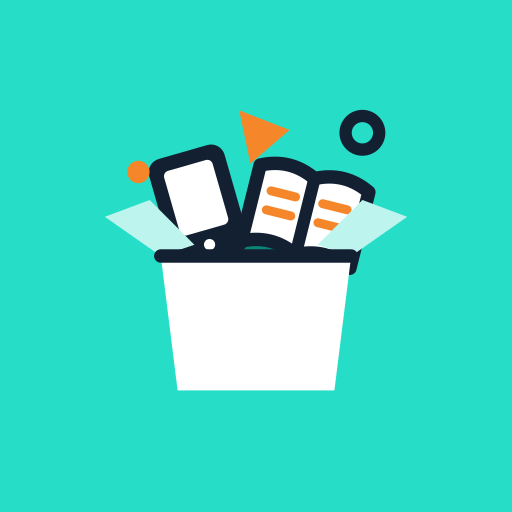
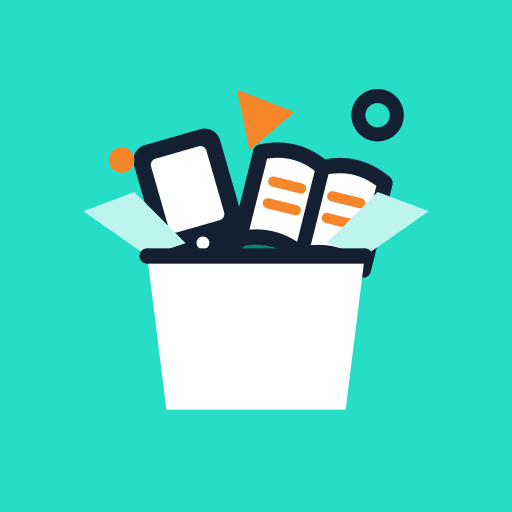
Add files via upload

Changed region(s): [[0.1562, 0.1562, 0.8438, 0.8125]]

diff --git a/index.html b/index.html
@@ -147,6 +147,36 @@ details.ayuda p{margin:0 0 6px}
 .check{display:flex;gap:10px;align-items:flex-start;font-weight:400;font-size:15px;margin-top:14px}
 .check input{margin-top:4px;width:18px;height:18px;flex:none;accent-color:var(--btn)}
 
+
+/* Pantalla de entrada: logo animado + barra de progreso rápida, cada vez que se abre la app */
+.splash{position:fixed;inset:0;z-index:100;display:flex;flex-direction:column;align-items:center;justify-content:center;gap:18px;
+  background:radial-gradient(circle at 50% 42%, var(--mint-soft) 0, var(--side) 55%);cursor:pointer;
+  transition:opacity .4s ease, transform .4s ease}
+.splash.fuera{opacity:0;transform:scale(1.04);pointer-events:none}
+.splash .marca{position:relative;width:132px;height:132px}
+.splash .marca svg{width:100%;height:100%;overflow:visible;position:relative}
+.splash .onda{position:absolute;inset:0;border-radius:30px;border:3px solid var(--mint);opacity:0;animation:spOnda .9s .38s ease-out forwards}
+.splash .pz{transform-box:fill-box;transform-origin:50% 100%;opacity:0;animation:spSale .5s var(--d,0s) cubic-bezier(.34,1.56,.64,1) forwards}
+.splash .fondo{transform-box:fill-box;transform-origin:50% 50%;transform:scale(.3) rotate(-12deg);opacity:0;animation:spFondo .55s cubic-bezier(.34,1.56,.64,1) forwards}
+.splash .caja-b{transform-box:fill-box;transform-origin:50% 0;opacity:0;animation:spCaja .45s .28s cubic-bezier(.34,1.4,.64,1) forwards}
+.splash .vuela{transform-box:fill-box;transform-origin:50% 50%;opacity:0;animation:spVuela .55s var(--d,0s) cubic-bezier(.34,1.56,.64,1) forwards}
+.splash .nombre{font-size:34px;font-weight:800;letter-spacing:-.5px;color:var(--ink);line-height:1;opacity:0;transform:translateY(10px);animation:spTexto .45s .85s ease-out forwards}
+.splash .nombre span{color:var(--btn)}
+.splash .lema-s{color:var(--muted);font-size:15px;margin-top:-8px;opacity:0;transform:translateY(8px);animation:spTexto .45s 1s ease-out forwards}
+.splash .barra{width:190px;height:6px;border-radius:6px;background:var(--line);overflow:hidden;margin-top:6px;opacity:0;animation:spTexto .3s .9s ease-out forwards}
+.splash .barra i{display:block;height:100%;width:0;border-radius:6px;background:linear-gradient(90deg,var(--mint),var(--btn));animation:spCarga .95s 1s cubic-bezier(.65,0,.35,1) forwards}
+@keyframes spFondo{to{transform:none;opacity:1}}
+@keyframes spCaja{from{transform:translateY(8px) scaleY(.6)}to{transform:none;opacity:1}}
+@keyframes spSale{0%{transform:translateY(18px) scale(.4);opacity:0}60%{opacity:1}100%{transform:none;opacity:1}}
+@keyframes spVuela{0%{transform:translate(var(--x,0),var(--y,14px)) scale(.2) rotate(-40deg);opacity:0}100%{transform:none;opacity:1}}
+@keyframes spOnda{0%{transform:scale(.85);opacity:.7}100%{transform:scale(1.45);opacity:0}}
+@keyframes spTexto{to{opacity:1;transform:none}}
+@keyframes spCarga{0%{width:0}35%{width:42%}55%{width:58%}100%{width:100%}}
+@media (prefers-reduced-motion: reduce){
+  .splash *, .splash{animation-duration:.01s !important;animation-delay:0s !important;transition:opacity .2s !important}
+  .splash .onda{display:none}
+}
+
 @media (max-width:820px){
   .app{grid-template-columns:1fr}
   aside{border-right:0;border-bottom:1px solid var(--line);padding:10px 12px;gap:8px}
@@ -164,6 +194,37 @@ details.ayuda p{margin:0 0 6px}
 </style>
 </head>
 <body>
+<div class="splash" id="splash" role="status" aria-label="REAnima">
+  <div class="marca" aria-hidden="true">
+    <div class="onda"></div>
+    <svg viewBox="0 0 64 64">
+      <rect class="fondo" width="64" height="64" rx="14" fill="#26ddc7"/>
+      <path class="caja-b" d="M15 32 H49 L45 28 H19 Z" fill="#0b8577"/>
+      <g class="pz" style="--d:.5s"><g transform="rotate(-16 22 24)"><rect x="15" y="13" width="14" height="20" rx="2.5" fill="#132032"/><rect x="17.5" y="15.5" width="9" height="12" rx="1" fill="#fff"/><circle cx="22" cy="30.2" r="1" fill="#fff"/></g></g>
+      <g class="pz" style="--d:.62s"><g transform="rotate(14 41 24)"><path d="M31 18 Q36 15.5 41 18 Q46 15.5 51 18 V32 Q46 29.5 41 32 Q36 29.5 31 32 Z" fill="#fff" stroke="#132032" stroke-width="2.4" stroke-linejoin="round"/><path d="M41 18 V32" stroke="#132032" stroke-width="2.2"/><path d="M34 22 H38.5 M34 25.5 H38.5 M43.5 22 H48 M43.5 25.5 H48" stroke="#f5862a" stroke-width="1.6" stroke-linecap="round"/></g></g>
+      <path class="vuela" style="--d:.74s;--x:2px;--y:22px" d="M29 6 L38 9.5 L31 15.5 Z" fill="#f5862a"/>
+      <circle class="vuela" style="--d:.8s;--x:-14px;--y:20px" cx="51" cy="10" r="3" fill="none" stroke="#132032" stroke-width="2.2"/>
+      <circle class="vuela" style="--d:.86s;--x:12px;--y:14px" cx="11" cy="17" r="2" fill="#f5862a"/>
+      <g class="caja-b">
+        <path d="M15 32 L5 25 L13 22 L21 30 Z" fill="#bdf5ee"/><path d="M49 32 L59 25 L51 22 L43 30 Z" fill="#bdf5ee"/>
+        <path d="M15 32 H49 L46 56 H18 Z" fill="#fff"/><path d="M15 32 H49" stroke="#132032" stroke-width="2.4" stroke-linecap="round"/>
+      </g>
+    </svg>
+  </div>
+  <div class="nombre">REA<span>nima</span></div>
+  <div class="lema-s" data-t="lema">Contra el REA en blanco</div>
+  <div class="barra" aria-hidden="true"><i></i></div>
+</div>
+<script>
+(function () {
+  var s = document.getElementById("splash"), hecho = false;
+  try { if (JSON.parse(localStorage.getItem("reanima") || "{}").lang === "en") s.querySelector(".lema-s").textContent = "Beat the blank OER"; } catch (e) {}
+  var corto = window.matchMedia && window.matchMedia("(prefers-reduced-motion: reduce)").matches;
+  function cerrar() { if (hecho) return; hecho = true; s.classList.add("fuera"); setTimeout(function () { s.remove(); }, 450); }
+  s.addEventListener("click", cerrar);
+  setTimeout(cerrar, corto ? 650 : 2150);
+})();
+</script>
 <svg width="0" height="0" style="position:absolute" aria-hidden="true">
   <symbol id="logo" viewBox="0 0 64 64">
     <rect width="64" height="64" rx="14" fill="#26ddc7"/><path d="M15 32 H49 L45 28 H19 Z" fill="#0b8577"/><g transform="rotate(-16 22 24)"><rect x="15" y="13" width="14" height="20" rx="2.5" fill="#132032"/><rect x="17.5" y="15.5" width="9" height="12" rx="1" fill="#fff"/><circle cx="22" cy="30.2" r="1" fill="#fff"/></g><g transform="rotate(14 41 24)"><path d="M31 18 Q36 15.5 41 18 Q46 15.5 51 18 V32 Q46 29.5 41 32 Q36 29.5 31 32 Z" fill="#fff" stroke="#132032" stroke-width="2.4" stroke-linejoin="round"/><path d="M41 18 V32" stroke="#132032" stroke-width="2.2"/><path d="M34 22 H38.5 M34 25.5 H38.5 M43.5 22 H48 M43.5 25.5 H48" stroke="#f5862a" stroke-width="1.6" stroke-linecap="round"/></g><path d="M29 6 L38 9.5 L31 15.5 Z" fill="#f5862a"/><circle cx="51" cy="10" r="3" fill="none" stroke="#132032" stroke-width="2.2"/><circle cx="11" cy="17" r="2" fill="#f5862a"/><path d="M15 32 L5 25 L13 22 L21 30 Z" fill="#bdf5ee"/><path d="M49 32 L59 25 L51 22 L43 30 Z" fill="#bdf5ee"/><path d="M15 32 H49 L46 56 H18 Z" fill="#fff"/><path d="M15 32 H49" stroke="#132032" stroke-width="2.4" stroke-linecap="round"/>
@@ -1286,24 +1347,28 @@ const INSTALADA = () => window.matchMedia("(display-mode: standalone)").matches 
 const PREVIA = (() => { try { return window.top !== window || !/^https?:$/.test(location.protocol) || location.hostname === "localhost" && /preview/.test(location.search); } catch (e) { return true; } })();
 const IOS = /iphone|ipad|ipod/i.test(navigator.userAgent) || (navigator.platform === "MacIntel" && navigator.maxTouchPoints > 1);
 let paso = 1, promptInstalar = null, instalada = false;
-const pasosTotales = () => (INSTALADA() || PREVIA) ? 3 : 4;
+// En una pestaña del navegador solo se ve la pantalla de instalar (lo primero al entrar por la URL).
+// La bienvenida, el consentimiento y los datos se piden ya dentro de la app instalada.
+const EN_PESTANA = () => !INSTALADA() && !PREVIA;
+const pasosTotales = () => 3;
 function debeMostrarInicio() {
-  if (!S.ok) return true;                      // faltan datos o consentimiento
-  if (INSTALADA() || PREVIA) return false;     // ya instalada (o vista previa)
-  return true;                                 // en pestaña: hay que instalar
+  if (EN_PESTANA()) return true;               // en pestaña: hay que instalar
+  return !S.ok;                                // instalada (o vista previa): faltan datos o consentimiento
 }
 function pintarInicio() {
   const ver = debeMostrarInicio();
   $("#inicio").classList.toggle("hidden", !ver);
   document.querySelector(".app").classList.toggle("hidden", ver && !PREVIA ? true : false);
   if (!ver) return;
-  if (S.ok && paso < 4) paso = 4;
+  const pestana = EN_PESTANA();
+  if (pestana) paso = 4; else if (paso > 3) paso = 1;
   const tot = pasosTotales();
-  $("#in1_meta").classList.toggle("hidden", tot === 4);
+  $("#in1_meta").classList.toggle("hidden", !PREVIA);
   [1, 2, 3, 4].forEach(k => $("#in" + k).classList.toggle("hidden", k !== paso));
+  $(".puntos").classList.toggle("hidden", pestana);
+  $("#inBotones").classList.toggle("hidden", pestana);
   $$(".puntos i").forEach((d, k) => { d.classList.toggle("hidden", k >= tot); d.classList.toggle("on", k < paso); });
-  $("#inAnt").style.visibility = paso === 1 || (S.ok && paso === 4) ? "hidden" : "visible";
-  $("#inSig").classList.toggle("hidden", paso === 4);
+  $("#inAnt").style.visibility = paso === 1 ? "hidden" : "visible";
   $("#inSig").textContent = paso === tot ? t("empezar") : t("continuar");
   $("#inSig").disabled = paso === 2 && !$("#acepto").checked;
   if (paso === 4) {
@@ -1320,7 +1385,7 @@ $("#inSig").addEventListener("click", () => {
     CAMPOS.forEach(k => S[k] = $("#i_" + k).value.trim());
     if (!S.nombre) { const n = $("#i_nombre"); n.setAttribute("aria-invalid", "true"); n.placeholder = t("obligatorio"); n.focus(); return; }
     S.ok = true; S.fase = 0; guardarEstado();
-    if (pasosTotales() === 3) { traducir(); return; }
+    traducir(); return;
   }
   paso++; pintarInicio();
   const f = $("#in" + paso + " input"); if (f) f.focus();

diff --git a/sw.js b/sw.js
@@ -1,15 +1,52 @@
-// REAnima: funciona sin conexión guardando la aplicación en caché.
+/* REAnima · service worker
+   Cambia CACHE en cada versión publicada: así la app instalada se actualiza sola. */
 const CACHE = "reanima-v16";
-const FILES = ["./", "./index.html", "./manifest.webmanifest", "./icons/icon.svg", "./icons/icon-180.png", "./icons/icon-192.png", "./icons/icon-512.png", "./icons/maskable-512.png"];
-self.addEventListener("install", e => { e.waitUntil(caches.open(CACHE).then(c => c.addAll(FILES))); self.skipWaiting(); });
-self.addEventListener("activate", e => {
-  e.waitUntil(caches.keys().then(ks => Promise.all(ks.filter(k => k !== CACHE).map(k => caches.delete(k)))));
-  self.clients.claim();
+const ARCHIVOS = [
+  "./",
+  "index.html",
+  "manifest.webmanifest",
+  "icons/icon.svg",
+  "icons/icon-180.png",
+  "icons/icon-192.png",
+  "icons/icon-512.png",
+  "icons/maskable-512.png"
+];
+
+self.addEventListener("install", e => {
+  e.waitUntil(
+    caches.open(CACHE)
+      .then(c => Promise.all(ARCHIVOS.map(u => c.add(u).catch(() => {}))))
+      .then(() => self.skipWaiting())
+  );
 });
+
+self.addEventListener("activate", e => {
+  e.waitUntil(
+    caches.keys()
+      .then(ks => Promise.all(ks.filter(k => k !== CACHE).map(k => caches.delete(k))))
+      .then(() => self.clients.claim())
+  );
+});
+
+// Páginas: primero la red (para recibir la última versión) y, sin conexión, la copia guardada.
+// Resto de archivos: primero la copia guardada.
 self.addEventListener("fetch", e => {
-  if (e.request.method !== "GET") return;
-  // Red primero (para recibir actualizaciones) y caché si no hay conexión.
-  e.respondWith(fetch(e.request).then(r => {
-    const copia = r.clone(); caches.open(CACHE).then(c => c.put(e.request, copia)); return r;
-  }).catch(() => caches.match(e.request).then(r => r || caches.match("./index.html"))));
+  const r = e.request;
+  if (r.method !== "GET" || new URL(r.url).origin !== location.origin) return;
+  if (r.mode === "navigate") {
+    e.respondWith(
+      fetch(r).then(res => {
+        const copia = res.clone();
+        caches.open(CACHE).then(c => c.put("index.html", copia));
+        return res;
+      }).catch(() => caches.match("index.html").then(x => x || caches.match("./")))
+    );
+    return;
+  }
+  e.respondWith(
+    caches.match(r).then(x => x || fetch(r).then(res => {
+      if (res.ok) { const copia = res.clone(); caches.open(CACHE).then(c => c.put(r, copia)); }
+      return res;
+    }))
+  );
 });
